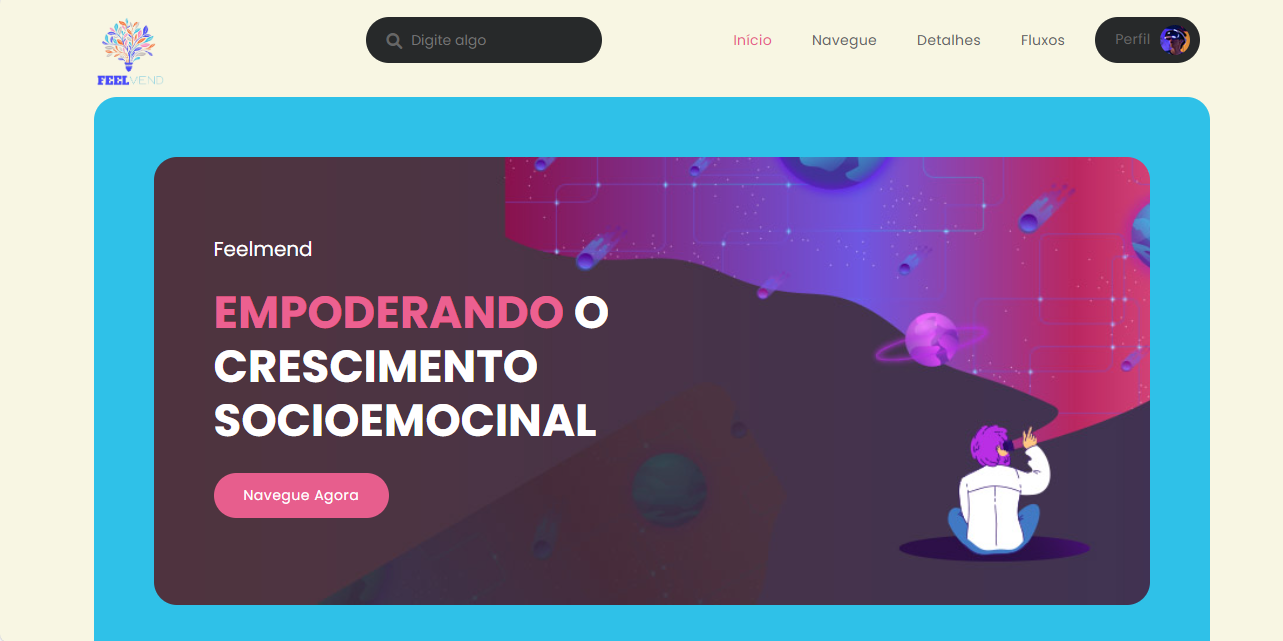
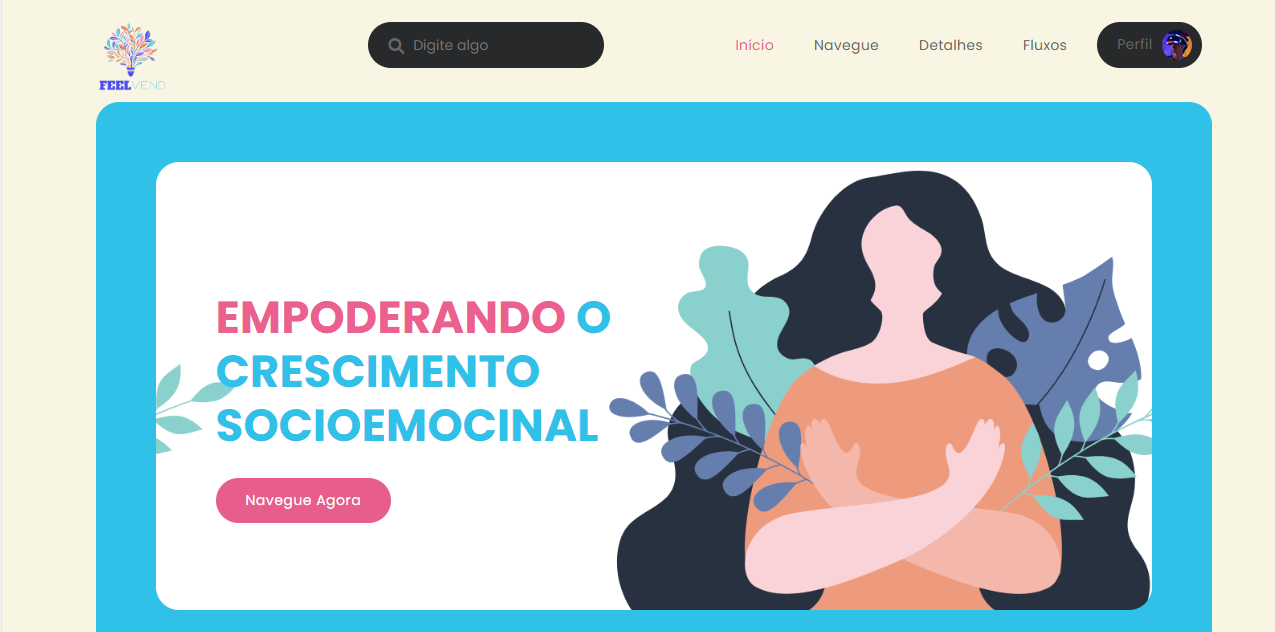
atualiza readme e imagem de fundo

diff --git a/cyborg-master/assets/css/templatemo-cyborg-gaming.css b/cyborg-master/assets/css/templatemo-cyborg-gaming.css
@@ -772,12 +772,13 @@ Banner Style
 */
 
 .main-banner {
-  background-image: url(../images/banner-bg.jpg);
+  background-image: url(../images/capa.png);
   background-position: center center;
   background-size: cover;
   min-height: 380px;
   border-radius: 23px;
   padding: 80px 60px;
+  background-position: left 245px center;
 }
 
 .main-banner h6 {
@@ -791,6 +792,7 @@ Banner Style
   font-size: 45px;
   text-transform: uppercase;
   margin-bottom: 25px;
+  color: #2FC1E8;
 }
 
 .main-banner h4 em {
